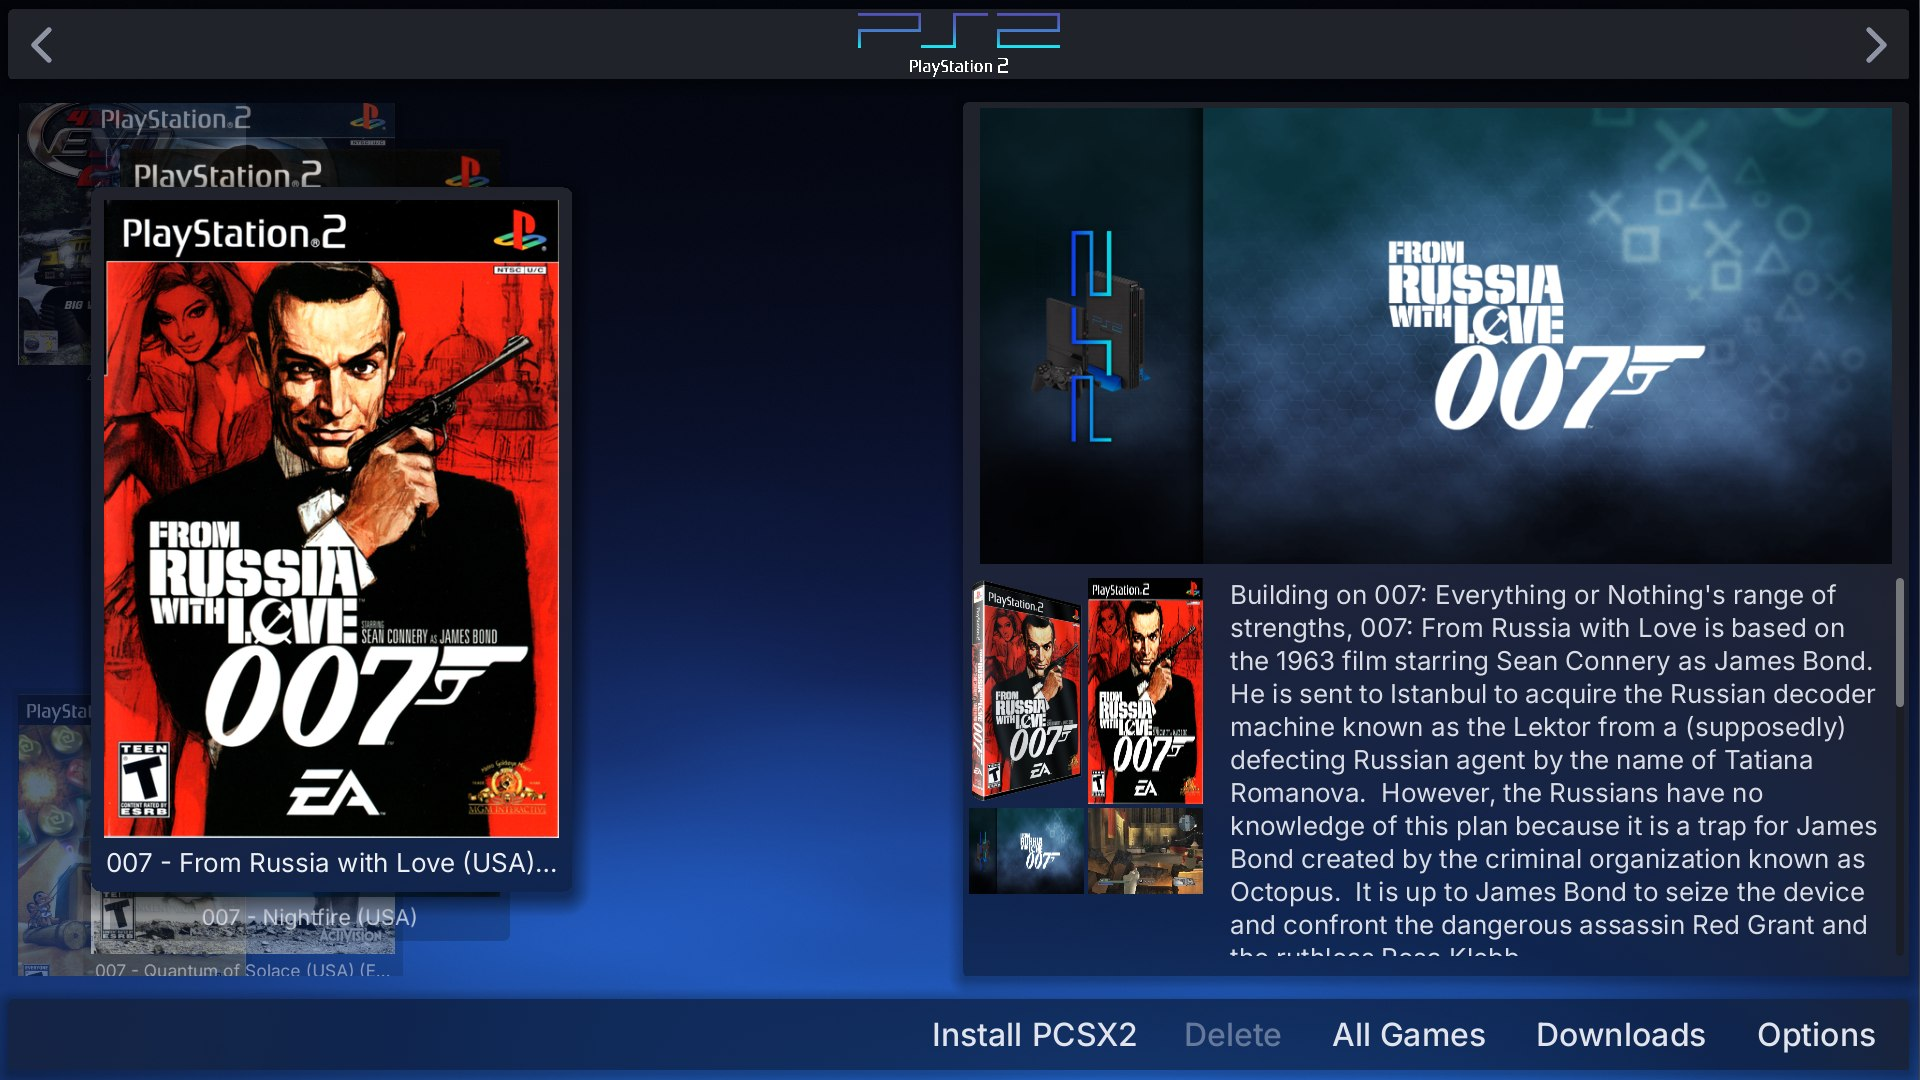
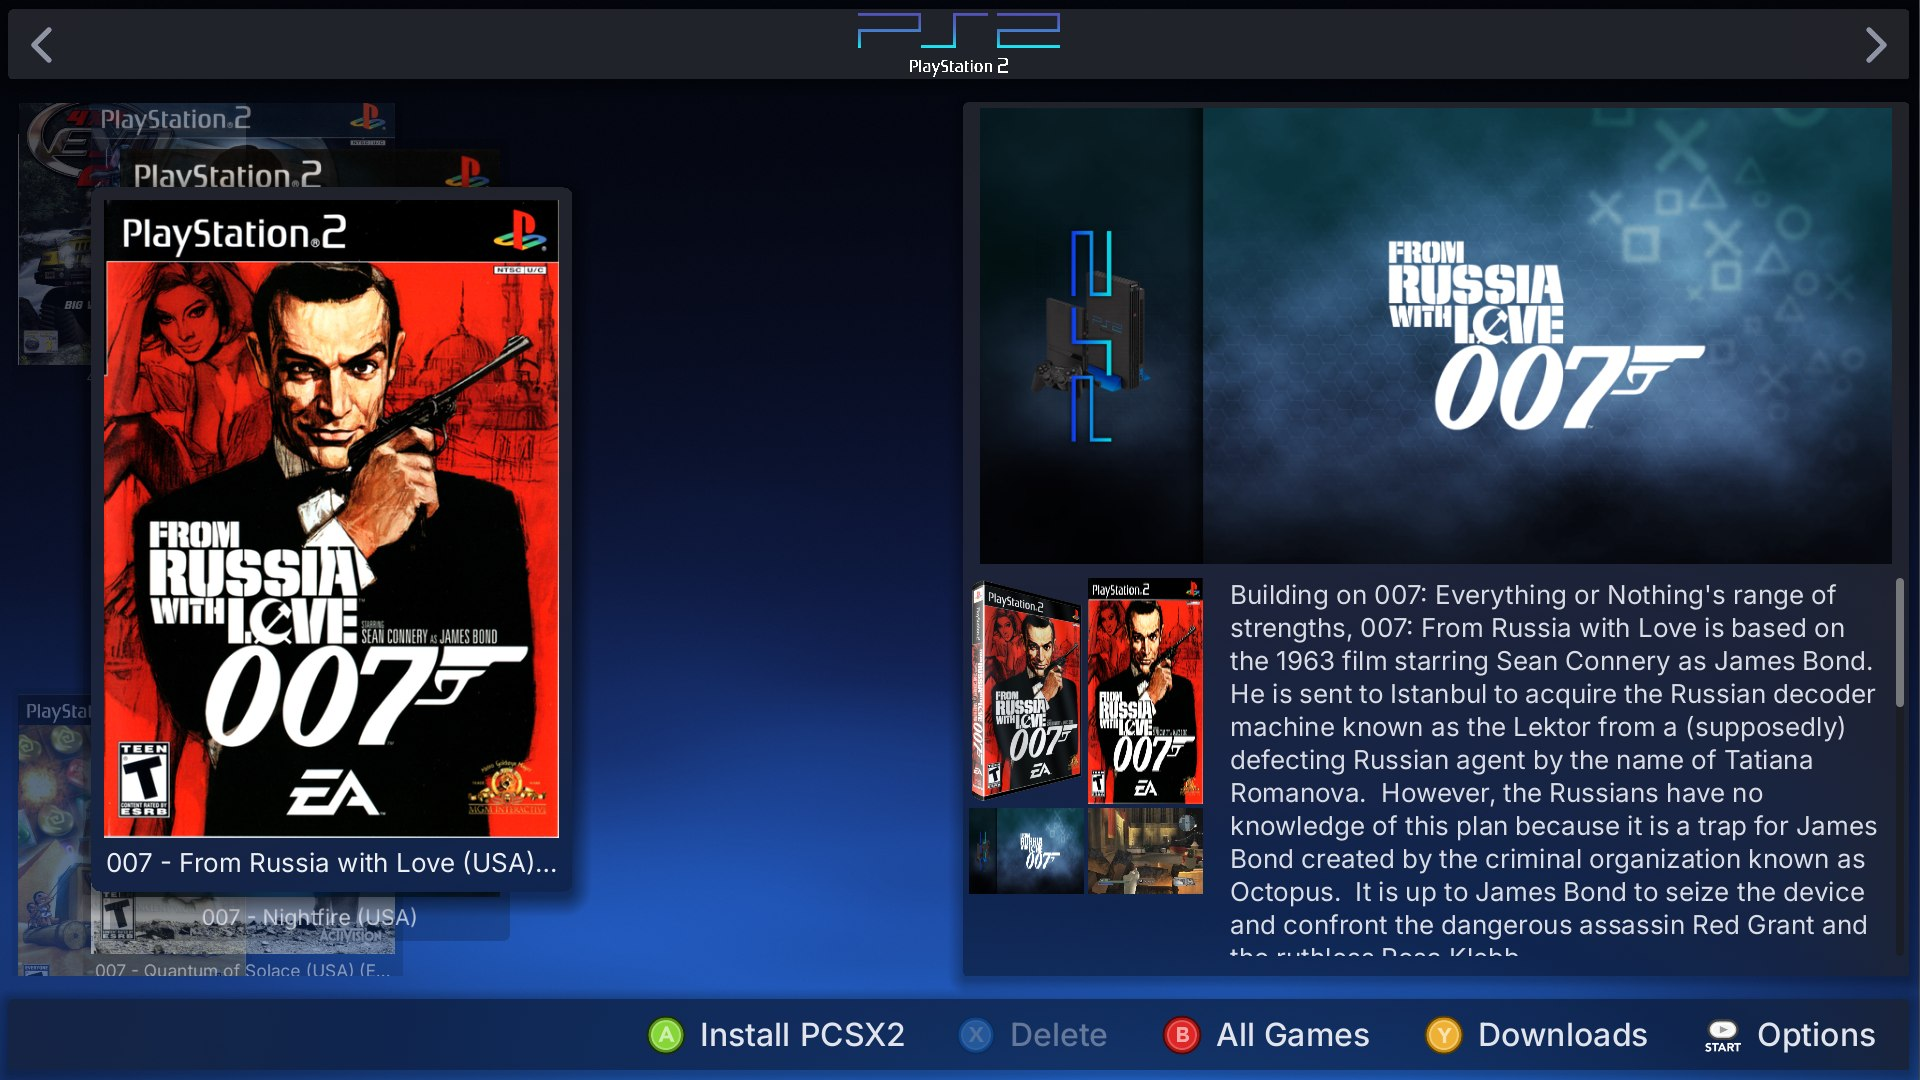
Show controller prompts in the README screenshots
--ui-capture-controller simulates a controller press after any capture
view, so screenshots show the bottom bar's button prompts.

Claude-Session: https://claude.ai/code/session_013aGRb3AWS3PdPb92YE9Z1f

Changed region(s): [[0.3125, 0.9472, 0.9062, 0.9778]]

diff --git a/scripts/main/MainScene.cs b/scripts/main/MainScene.cs
@@ -293,6 +293,7 @@ public partial class MainScene : Control
     private const string LayoutCaptureViewArgumentPrefix = "--ui-capture-view=";
     private const string LayoutCaptureSystemArgumentPrefix = "--ui-capture-system=";
     private const string LayoutCaptureThemeArgumentPrefix = "--ui-capture-theme=";
+    private const string LayoutCaptureControllerArgument = "--ui-capture-controller";
     private const string LayoutCaptureBackgroundArgumentPrefix = "--ui-capture-background=";
 
     private string previewThemeName;
@@ -354,12 +355,14 @@ public partial class MainScene : Control
             case "start": ToggleStartMenu(); break;
             case "jump": OpenSystemJumpPopup(); break;
             case "carousel": CaptureGameListView(0, 3); break;
-            case "glyphs":
-                Input.ParseInputEvent(new InputEventJoypadButton { ButtonIndex = JoyButton.Misc1, Pressed = true, Device = 0 });
-                Input.ParseInputEvent(new InputEventJoypadButton { ButtonIndex = JoyButton.Misc1, Pressed = false, Device = 0 });
-                break;
+            case "glyphs": SimulateControllerInput(); break;
             case "grid": CaptureGameListView(1, 9); break;
             case "list": CaptureGameListView(2, 6); break;
+        }
+
+        if (userArguments.Contains(LayoutCaptureControllerArgument))
+        {
+            SimulateControllerInput();
         }
 
         await ToSignal(GetTree().CreateTimer(LayoutCaptureSettleSeconds - LayoutCaptureViewDelaySeconds), SceneTreeTimer.SignalName.Timeout);
@@ -370,6 +373,12 @@ public partial class MainScene : Control
         string openPanel = panelStack.TopPanel?.Name ?? "none";
         GD.Print($"[Layout] captured {capturedFrame.GetWidth()}x{capturedFrame.GetHeight()} (canvas {GetViewportRect().Size}, carousel {gameList?.Size}, details {detailsPanel?.Size}, open panel {openPanel}, section {SectionHandler?.CurrentSection}) to {capturePath}: {saveResult}");
         GetTree().Quit();
+    }
+
+    private static void SimulateControllerInput()
+    {
+        Input.ParseInputEvent(new InputEventJoypadButton { ButtonIndex = JoyButton.Misc1, Pressed = true, Device = 0 });
+        Input.ParseInputEvent(new InputEventJoypadButton { ButtonIndex = JoyButton.Misc1, Pressed = false, Device = 0 });
     }
 
     private void CaptureGameListView(int viewIndex, int selectedIndex)

diff --git a/docs/DESIGN-NOTES.md b/docs/DESIGN-NOTES.md
@@ -1494,8 +1494,8 @@ these buttons shrink to their text, so the icon got none. The glyph texture itse
 in a plain `TextureRect`). `ControllerGlyph.Apply` now turns `expand_icon` off and caps the glyph
 at 48 px with `icon_max_width`, which keeps it in the minimum size, and puts it left of the label.
 Glyphs still show only while the last input came from a controller (`show_mode = CONTROLLER`), so
-mouse and keyboard users see plain labels. The `glyphs` capture view simulates a controller press to
-capture them.
+mouse and keyboard users see plain labels. The `glyphs` capture view, or `--ui-capture-controller` with any
+other view, simulates a controller press so captures show them.
 
 ### The demo video is recorded, not screen-captured
 `tools/demo/record-demo.ps1` runs the app with `-- --ui-demo` under `--write-movie` at a fixed
